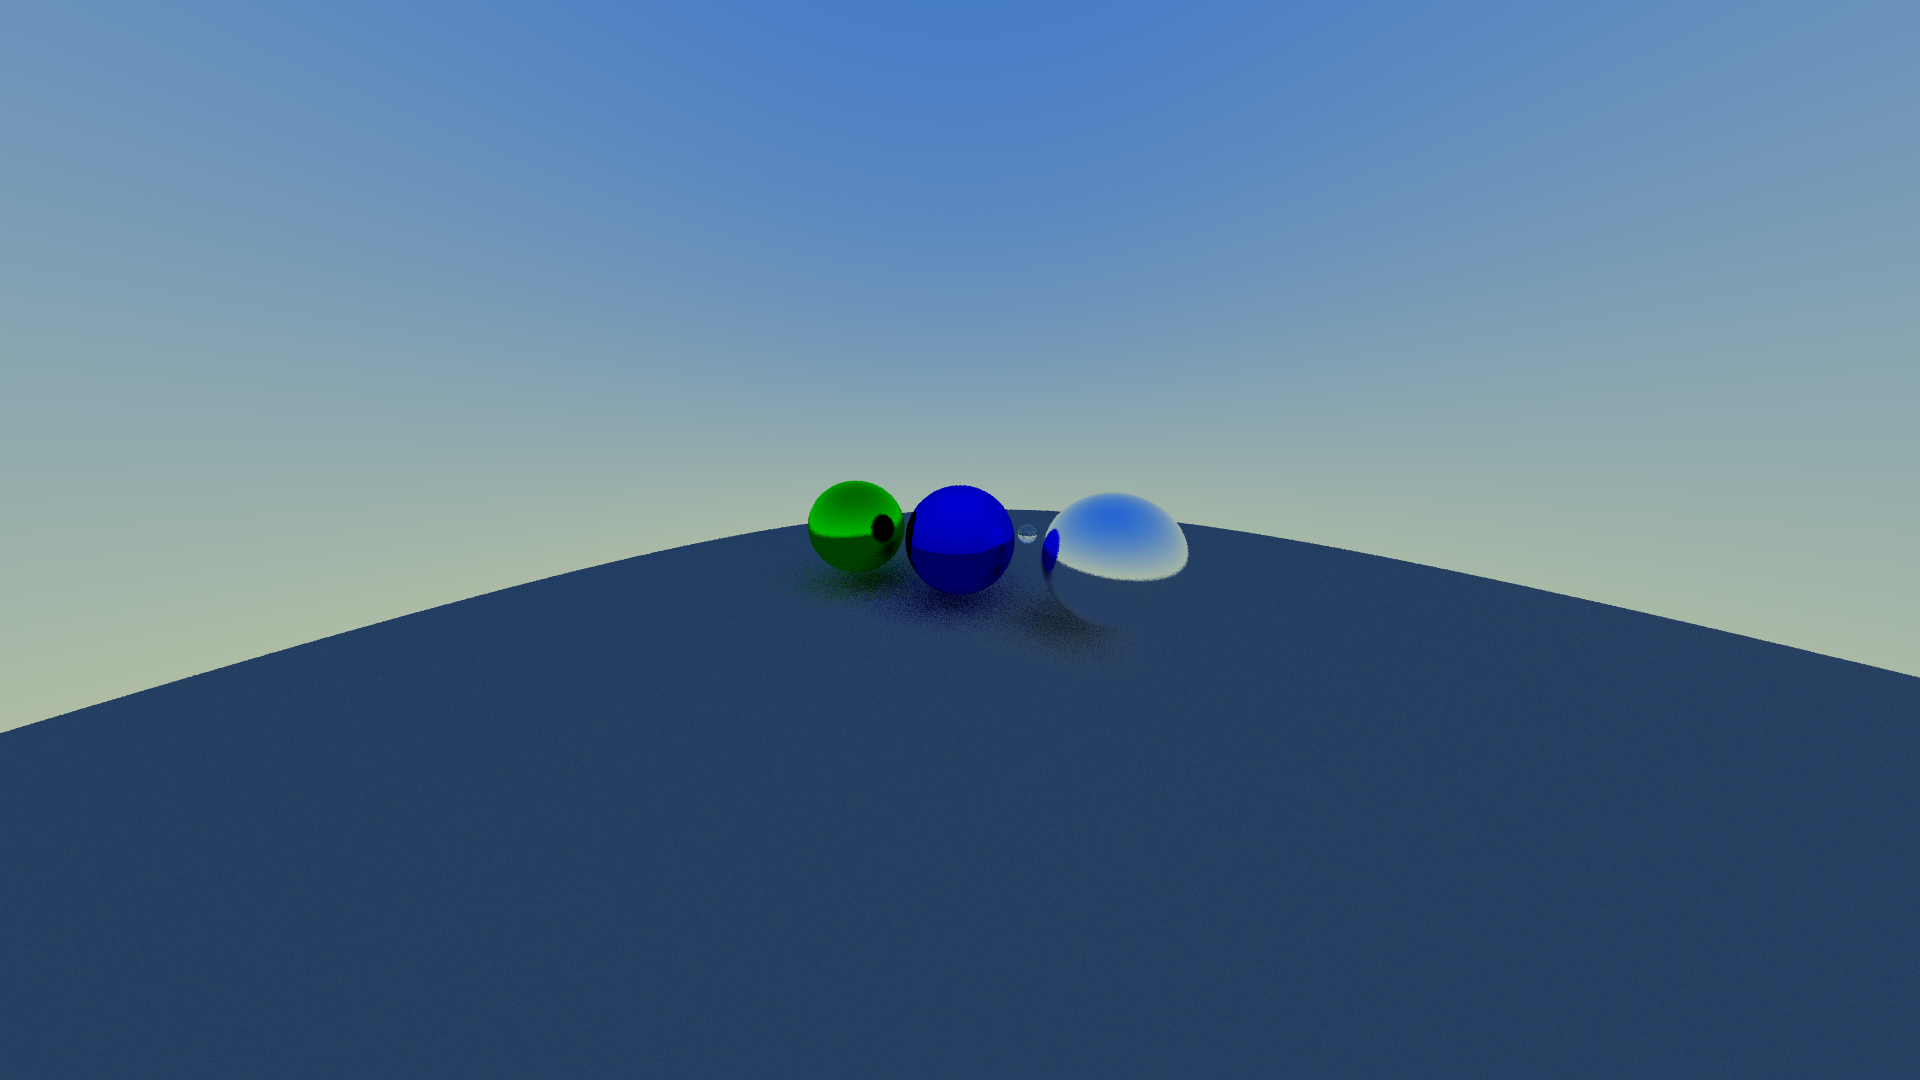
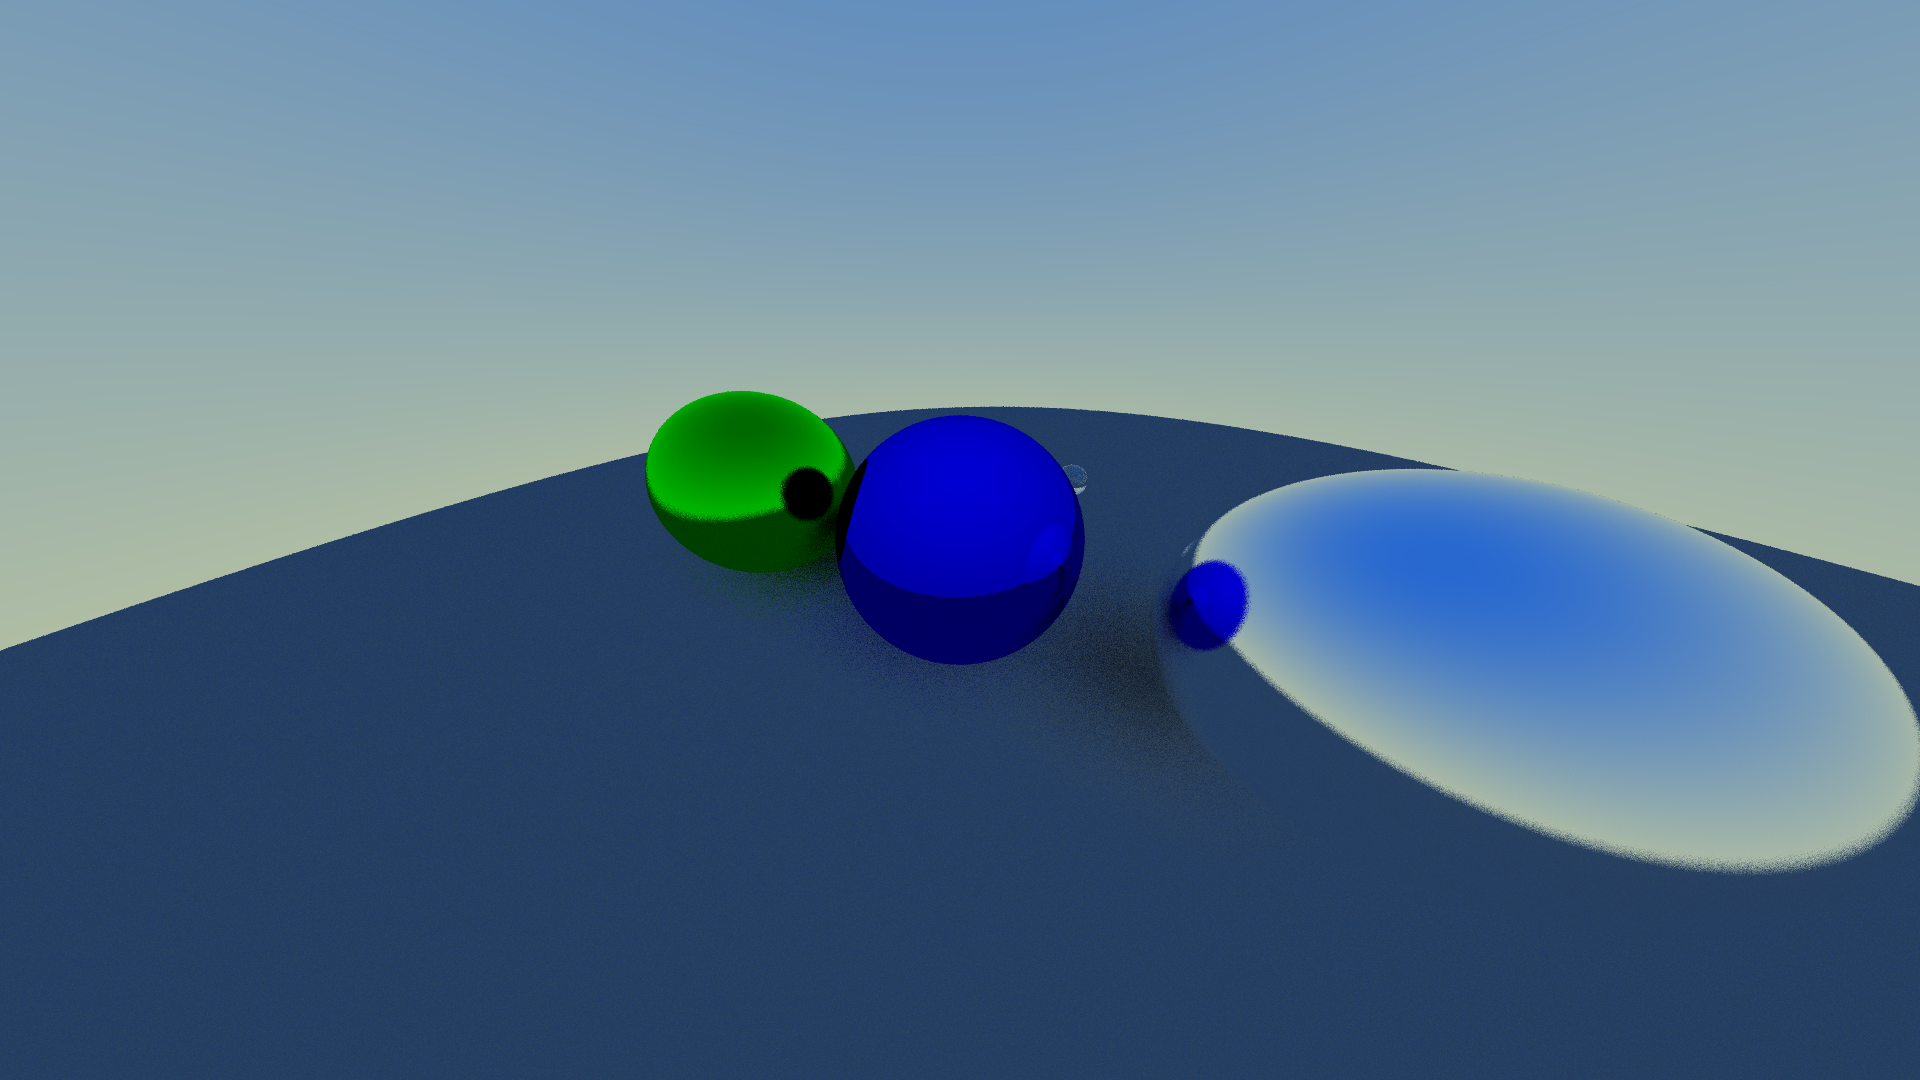
Added picture resolution into config

diff --git a/main.go b/main.go
@@ -25,8 +25,8 @@ func checkError(err error) {
 func main() {
     raytracer.ImportConfig("config.json")
     raytracer.ImportScene("scene.json")
-    xSize := 1920
-    ySize := 1080
+    xSize := raytracer.Settings.WidthInPixels
+    ySize := raytracer.Settings.HeightInPixels
     bounds := image.Rectangle{image.Point{0,0}, image.Point{xSize, ySize}}
     globalCamera = raytracer.CreateCameraFromPos(
         raytracer.Vector3 {
@@ -34,9 +34,9 @@ func main() {
             Y: 0.5,
             Z: -5.0 },
         raytracer.Vector3 {
-            X: -2.0,
+            X: -0.5,
             Y: 2.0,
-            Z: -10.0 },
+            Z: -7.0 },
         raytracer.Vector3 {
             X: 0.0,
             Y: 1.0,

diff --git a/RayTracer/World.go b/RayTracer/World.go
@@ -31,6 +31,12 @@ type Config struct {
 
     // MaxAntialiasRays is the maximum number of rays that will be shot per pixel for anit aliasing
     MaxAntialiasRays uint32
+    
+    // WidthInPixels is the horizontal resolution of the resulting image
+    WidthInPixels int
+    
+    // HeightInPixels is the vertical resolution of the resulting image    
+    HeightInPixels int
 }
 
 // Settings contains the current config the ray tracer will use
